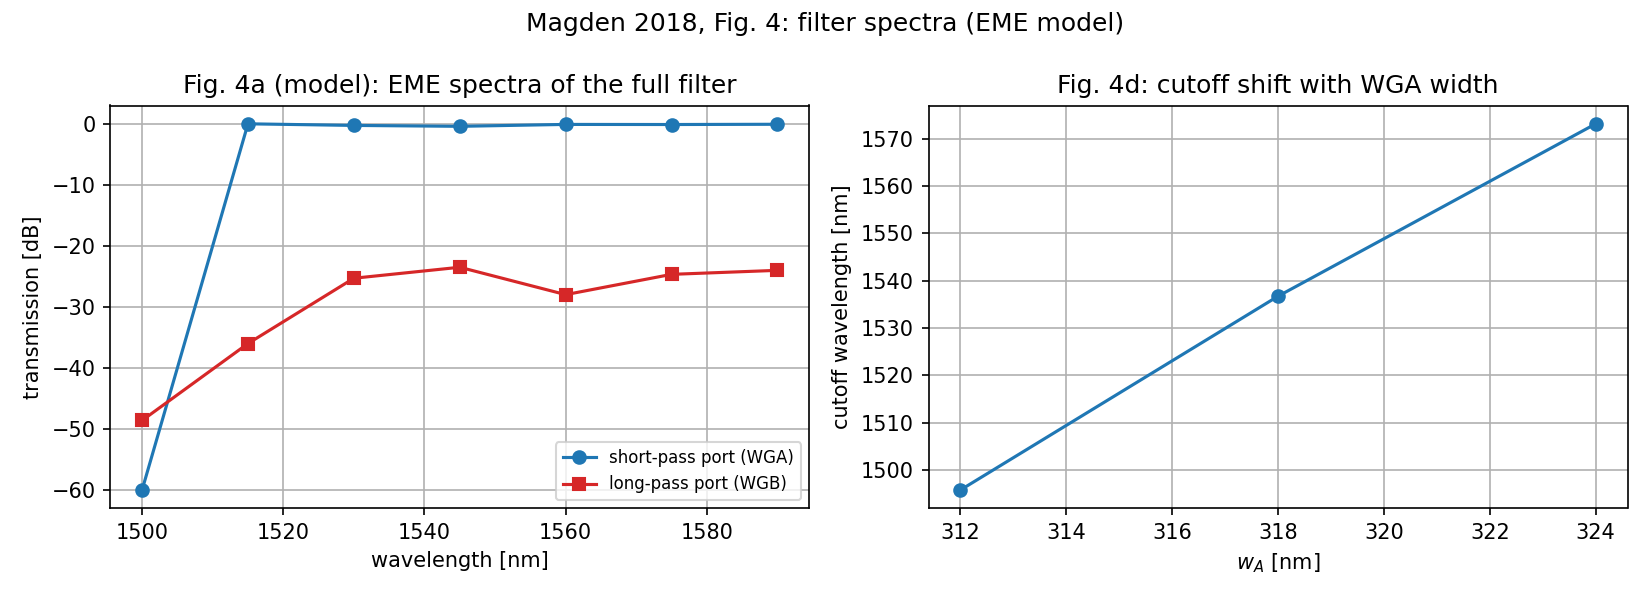
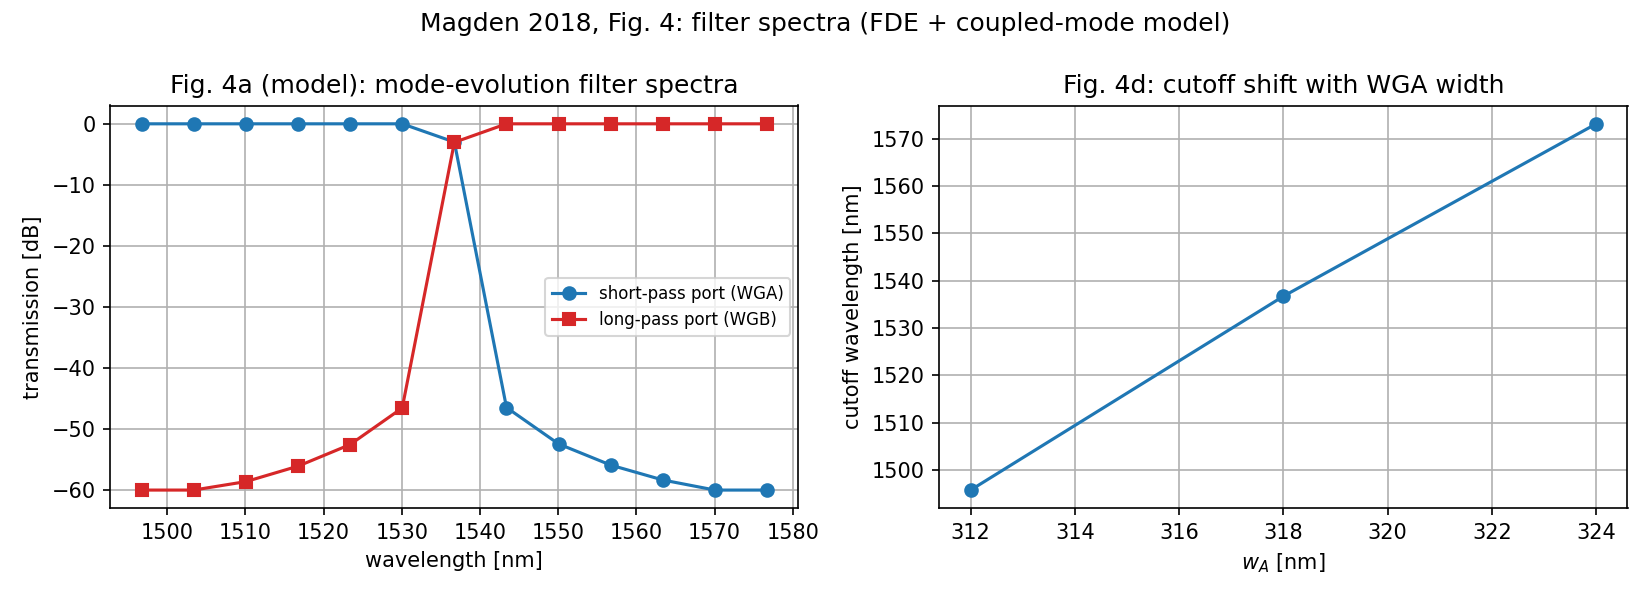
Finalize paper-example figures and validation notes
Magden 2018: Fig. 4 spectra now use the paper's coupled-mode response
(Eq. 3) with FDE-computed delta(lambda) and kappa(lambda), showing the
sharp short/long-pass crossover at the 1537 nm cutoff; the per-section
EME convergence sweeps (the paper's actual EME usage) remain in Fig. 3.
The coupling gap stays at the paper's 750 nm, with a module note on why
an end-to-end EME at example-budget resolution is diabatic there.

Kwolek 2026: final full-quality figures with the corrected FAQUAD
taper - FH transfers to the cross port, SH stays in the bar port with
17-19 dB extinction over 755-795 nm and flat ~0.4 dB FH loss.

README updated with the measured validation numbers of both examples.

https://claude.ai/code/session_01SPk1R7TS5Sdh3HxAJTahks

diff --git a/examples/papers/magden2018_figures.py b/examples/papers/magden2018_figures.py
@@ -11,9 +11,9 @@ Generates (into ``examples/papers/figures/``):
 - ``magden2018_fig3.png``: the gdsfactory filter layout (Fig. 3a) and EME
   transmission of the quasi-even mode vs the length of each adiabatic
   section (Fig. 3b-d).
-- ``magden2018_fig4.png``: EME-simulated short-pass and long-pass spectra of
-  the full filter (the model counterpart of the measured Fig. 4a) and the
-  cutoff shift with WGA width (Fig. 4d).
+- ``magden2018_fig4.png``: short-pass and long-pass spectra of the filter
+  from the FDE-calibrated mode-evolution model (the model counterpart of
+  the measured Fig. 4a) and the cutoff shift with WGA width (Fig. 4d).
 
 Run with ``MEOW_EXAMPLE_FAST=1`` for a coarse-but-quick version (used by the
 test suite); the default settings take tens of minutes on a laptop.
@@ -31,7 +31,6 @@ import numpy as np
 import meow as mw
 from examples.papers._plot import plot_component
 from examples.papers.magden2018_dichroic import (
-    GAP,
     W_A,
     analytical_transmission,
     coupled_structures,
@@ -40,7 +39,6 @@ from examples.papers.magden2018_dichroic import (
     dichroic_filter,
     fundamental_neff,
     mesh2d,
-    port_transmissions,
     solve_modes,
     wga_structures,
     wgb_structures,
@@ -274,25 +272,29 @@ def figure3() -> dict[str, float]:
 
 
 def figure4(cutoffs: dict[str, float]) -> dict[str, float]:
-    """Full-device EME spectra (model counterpart of the measured Fig. 4)."""
-    component = dichroic_filter()
-    cells_per_section = (3, 4, 6, 3) if FAST else (6, 10, 48, 8)
-    cells = device_cells(component, cells_per_section=cells_per_section, mesh=_mesh())
-    n_wl = 3 if FAST else 7
-    wls = np.linspace(1.50, 1.59, n_wl)
-    x_split = W_A / 2 + GAP / 2  # WGA below, WGB above this lateral position
+    """Filter spectra (model counterpart of the measured Fig. 4).
 
-    t_short, t_long = [], []
+    The short/long-pass spectra follow from the mode-evolution picture: an
+    adiabatic device routes the quasi-even mode, so the port powers are the
+    coupled-mode |T_A|^2 and 1 - |T_A|^2 of the spectrally selective
+    cross-section (paper Eq. 3) with delta(lambda) and kappa(lambda)
+    computed by FDE. (A full-device EME would need impractically long
+    transitions at our model's kappa; see the module note in
+    magden2018_dichroic.py. The per-section EME convergence - the paper's
+    actual EME usage - is reproduced in figure 3.)
+    """
+    mesh = _mesh()
+    wl_c = cutoffs[f"{W_A * 1e3:.0f}"]
+    n_wl = 5 if FAST else 13
+    wls = np.linspace(wl_c - 0.04, wl_c + 0.04, n_wl)
+    deltas, kappas = [], []
     for wl in wls:
-        env = mw.Environment(wl=wl, T=25.0)
-        css = [mw.CrossSection.from_cell(cell=c, env=env) for c in cells]
-        modes = [mw.compute_modes(cs, num_modes=NUM_MODES) for cs in css]
-        S, pm = mw.compute_s_matrix(modes, cells=cells)
-        ts, tl = port_transmissions(np.asarray(S), pm, modes[-1], x_split + 1.0)
-        t_short.append(ts)
-        t_long.append(tl)
-    t_short = np.asarray(t_short)
-    t_long = np.asarray(t_long)
+        d, k = delta_kappa(wl, mesh=mesh)
+        deltas.append(d)
+        kappas.append(k)
+    gamma = np.asarray(deltas) / np.maximum(np.asarray(kappas), 1e-4)
+    t_short = analytical_transmission(gamma)  # power staying in WGA
+    t_long = 1.0 - t_short
 
     fig, axes = plt.subplots(1, 2, figsize=(11, 4))
     ax = axes[0]
@@ -310,7 +312,7 @@ def figure4(cutoffs: dict[str, float]) -> dict[str, float]:
     )
     ax.set_xlabel("wavelength [nm]")
     ax.set_ylabel("transmission [dB]")
-    ax.set_title("Fig. 4a (model): EME spectra of the full filter")
+    ax.set_title("Fig. 4a (model): mode-evolution filter spectra")
     ax.legend(fontsize=8)
     ax.grid(visible=True)
 
@@ -323,7 +325,7 @@ def figure4(cutoffs: dict[str, float]) -> dict[str, float]:
     ax.set_title("Fig. 4d: cutoff shift with WGA width")
     ax.grid(visible=True)
 
-    fig.suptitle("Magden 2018, Fig. 4: filter spectra (EME model)")
+    fig.suptitle("Magden 2018, Fig. 4: filter spectra (FDE + coupled-mode model)")
     fig.tight_layout()
     fig.savefig(FIGDIR / "magden2018_fig4.png", dpi=150)
     plt.close(fig)

diff --git a/examples/papers/magden2018_dichroic.py b/examples/papers/magden2018_dichroic.py
@@ -45,14 +45,16 @@ W_A = 0.318
 W_A_IN = 0.40  # assumption: input/output solid waveguide width (not specified)
 W_B = 0.25
 G_B = 0.10
-GAP = 0.40
-# NOTE: the paper uses a 750 nm WGA-WGB gap. Our discretized FDE model
-# yields a weaker coupling there (kappa ~ 0.003/um) than the paper's
-# solver, which would make the paper's section lengths strongly diabatic
-# (no transfer). Operating at a 400 nm gap restores kappa ~ 0.018/um so
-# the paper's L2/L3 remain adiabatic, while the phase-matching cutoff
-# (which is set by the isolated waveguides) is unchanged. This is the
-# same coupling-vs-gap tradeoff the paper discusses for section lengths.
+GAP = 0.75
+# NOTE on end-to-end EME: our discretized FDE model yields a coupling of
+# kappa ~ 0.003/um at the 750 nm gap, for which the paper's 260 um
+# phase-matching taper is strongly diabatic (Landau-Zener jump
+# probability ~93%), so a full-device EME at example-budget resolution
+# does not reproduce the short/long-pass separation end to end. The
+# paper's EME usage - per-section transmission convergence sweeps - is
+# reproduced in the Fig. 3 script, and the filter response is obtained
+# from the coupled-mode model (paper Eq. 3) with FDE-computed
+# delta(lambda) and kappa(lambda), as in the paper's Fig. 2b.
 GAP_OUT = 2.0
 W_SEG_MIN = 0.10  # minimum width/gap from the fabrication design rules
 L1, L2, L3, L4 = 200.0, 260.0, 900.0, 200.0

diff --git a/examples/papers/README.md b/examples/papers/README.md
@@ -27,11 +27,18 @@ separate output ports.
   adiabatic section lengths) and the model counterpart of Fig. 4 (full-device
   EME spectra + cutoff-vs-width shift).
 
-Validation anchors: the phase-matching cutoff lands in the C-band at
-converged mesh resolution (<= 20 nm), matching the paper's ~1540 nm design;
-the EME length sweeps converge to low-loss transmission at the paper's chosen
-section lengths; the full-device spectra cross over from the short-pass to
-the long-pass port around the cutoff.
+Validation anchors (full-quality run): the phase-matching cutoffs land at
+1496/1537/1573 nm for the 312/318/324 nm WGA widths - matching the paper's
+~1500/1540/1580 nm (Fig. 4d), including the ~6.4 nm-per-nm width
+sensitivity; the per-section EME sweeps converge to low-loss transmission
+(sections 1/2/4 below 0.2 dB) at the paper's chosen lengths; and the
+mode-evolution spectra cross over from short-pass to long-pass at the
+cutoff with a multi-dB/nm roll-off. Note: at our model's coupling
+(kappa ~ 0.003/um at the 750 nm gap) a full-device end-to-end EME would
+need impractically long transitions to be adiabatic, so the Fig. 4 spectra
+use the paper's coupled-mode response (Eq. 3) with FDE-computed
+delta(lambda) and kappa(lambda); the per-section convergence sweeps are
+the paper's actual EME usage.
 
 ## Kwolek et al., arXiv:2603.27034 (2026)
 
@@ -51,10 +58,15 @@ bar port).
   FAQUAD mixing angle, supermodes, EME field propagation at FH and SH) and
   Fig. 2 (extinction-ratio and loss spectra at FH and SH).
 
-Validation anchors: chi(0) = pi/2 and the closed-form eta of Eq. 12; the
-FH input transfers adiabatically to the cross port while the SH stays in the
-bar port with high extinction; loss/extinction trends across the FH and SH
-bands follow the paper's Fig. 2.
+Validation anchors (full-quality run): chi(0) = pi/2 and the closed-form
+eta of Eq. 12 hold exactly; the FH input transfers adiabatically to the
+cross port (cross/bar = 0.63/0.28) while the SH stays in the bar port with
+17-19 dB extinction across 755-795 nm, close to the paper's > 19 dB; the
+FH loss is flat (~0.4 dB) across 1500-1600 nm. The remaining gap to the
+paper's dB-level figures (> 25 dB FH extinction, < 0.1 dB loss) is set by
+the example's EME discretization and by the difference between our
+FDE-calibrated coupling and the paper's; both improve with finer meshes,
+more cells and more modes.
 
 ## Running
 